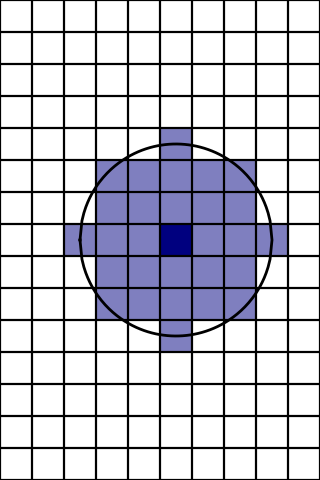
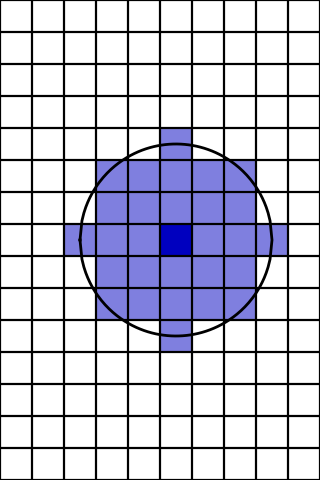
new part to circle and wedge method

Changed region(s): [[0.1875, 0.25, 0.9062, 0.75]]

diff --git a/create_results.py b/create_results.py
@@ -54,6 +54,8 @@ def make_image(data, outputname, size=(4, 6), dpi=80, cmap = 'RdYlBu', add_value
         for col in range(np.size(data, 1)):
             for row in range(np.size(data, 0)):
                 str = int(data[row, col])
+                if str == -9:
+                    str = "NA"
                 ax.text(col-0.25, row+0.2, str)
     
     
@@ -123,12 +125,16 @@ file = np.random.randint(0,99, 150).reshape(15, 10)
 make_image(file, 'figures/focal_stat_in.png')
 
 # colormap for figures that show window
-cmap = mcolors.LinearSegmentedColormap.from_list("", [(1,1,1), (0,0,0.5)])
+cmap = mcolors.LinearSegmentedColormap.from_list("", [(1,1,1), (0,0,0.75)])
 
 
 # save outputs for circle neighborhood
 out = focal_statistics(file, Circle(3), "max")
 make_image(out, 'figures/circle_3_out_max.png')
+
+out = focal_statistics(file, Circle(2), "max", ignore_nodata = False)
+out = np.where(np.isnan(out), -9, out)
+make_image(out, 'figures/circle_3_out_max_ignore_false.png')
 
 out = focal_statistics(file, Circle(3), "mean")
 make_image(out, 'figures/circle_3_out_mean.png')
@@ -138,8 +144,10 @@ make_image(out, 'figures/circle_3_out_std.png')
 
 
 window = get_values(file, Circle(3), 7, 5, show_window = 1)
+cmap = mcolors.LinearSegmentedColormap.from_list("", [(1,1,1), (0,0.5,0)])
 make_image(file, 'figures/circle_3_out_window.png', show_window = True,
            window_type = "circle", window = window, cmap = cmap)
+cmap = mcolors.LinearSegmentedColormap.from_list("", [(1,1,1), (0,0,0.75)])
 make_image(file, 'figures/circle_3_out_window_no_values.png', add_values = False,
            show_window = True, window_type = "circle", window = window, cmap = cmap)
 
@@ -149,6 +157,9 @@ make_image(file, 'figures/circle_3_out_window_no_values.png', add_values = False
 out = focal_statistics(file, Wedge(3, 0, 135), "max")
 make_image(out, "figures/wedge_3_0_135_out_max.png")
 
+out = focal_statistics(file, Wedge(3, 0, 135), "max", ignore_nodata = False)
+make_image(out, "figures/wedge_3_0_135_out_max_ignore_false.png")
+
 out = focal_statistics(file, Wedge(3, 0, 135), "mean")
 make_image(out, "figures/wedge_3_0_135_out_mean.png")
 
@@ -156,9 +167,13 @@ out = focal_statistics(file, Wedge(3, 0, 135), "std")
 make_image(out, "figures/wedge_3_0_135_out_std.png")
 
 
+
+
 window = get_values(file, Wedge(3, 0, 135), 7, 5, show_window = 1)[0]
+cmap = mcolors.LinearSegmentedColormap.from_list("", [(1,1,1), (0,0.5,0)])
 make_image(file, 'figures/wedge_3_0_135_out_window.png', show_window = True,
            window_type = "wedge", window = window, cmap = cmap, start = 0, end = 135)
+cmap = mcolors.LinearSegmentedColormap.from_list("", [(1,1,1), (0,0,0.75)])
 make_image(file, 'figures/wedge_3_0_135_out_window_no_values.png', show_window = True, add_values = False,
            window_type = "wedge", window = window, cmap = cmap, start = 0, end = 135)
 
@@ -168,6 +183,9 @@ make_image(file, 'figures/wedge_3_0_135_out_window_no_values.png', show_window =
 # save outputs for rectangle neighborhood
 out = focal_statistics(file, Rectangle(6, 4), "max")
 make_image(out, "figures/rectangle_5_3_out_max.png")
+
+out = focal_statistics(file, Rectangle(6, 4), "max", ignore_nodata = False)
+make_image(out, "figures/rectangle_5_3_out_max_ignore_false.png")
 
 out = focal_statistics(file, Rectangle(6, 4), "mean")
 make_image(out, "figures/rectangle_5_3_out_mean.png")
@@ -179,8 +197,10 @@ make_image(out, "figures/rectangle_5_3_out_std.png")
 window = np.zeros(file.shape)
 window[6:10, 3:9] = 0.5
 window[7, 5] = 1
+cmap = mcolors.LinearSegmentedColormap.from_list("", [(1,1,1), (0,0.5,0)])
 make_image(file, 'figures/rectangle_5_3_out_window.png', show_window = True,
            window_type = "rectangle", window = window, cmap = cmap, corner = (3,8,6,9))
+cmap = mcolors.LinearSegmentedColormap.from_list("", [(1,1,1), (0,0,0.75)])
 make_image(file, 'figures/rectangle_5_3_out_window_no_values.png', show_window = True, add_values = False,
            window_type = "rectangle", window = window, cmap = cmap, corner = (3,8,6,9))
 

diff --git a/functions.py b/functions.py
@@ -13,6 +13,7 @@ cell values.
 
 import math
 import numpy as np
+import ipdb
 
 from classes import Rectangle, Circle, Wedge
 
@@ -103,9 +104,12 @@ def focal_statistics(in_data,
                     out_data[row, col] = function[statistic](values)
                 
                 elif np.isnan(values).any():
+                    ipdb.set_trace()
                     out_data[row, col] = None
+                    
                 
                 else:
+                    ipdb.set_trace()
                     out_data[row, col] = function[statistic](values)
         
         out_data = out_data[p:-p, p:-p]
